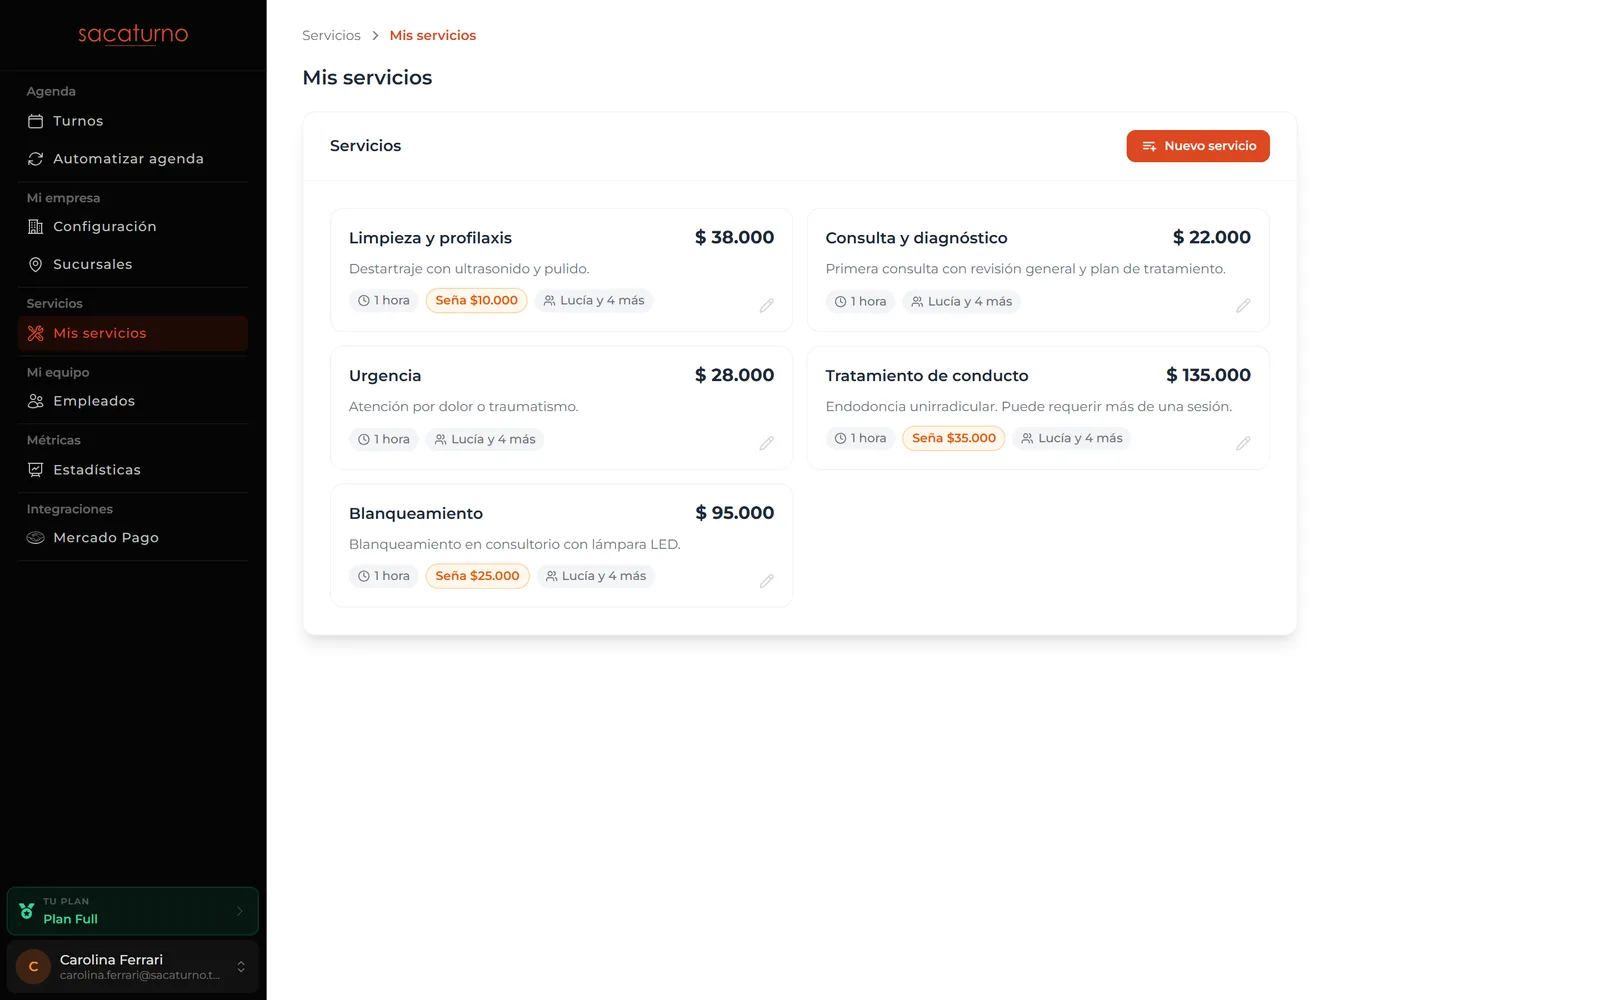
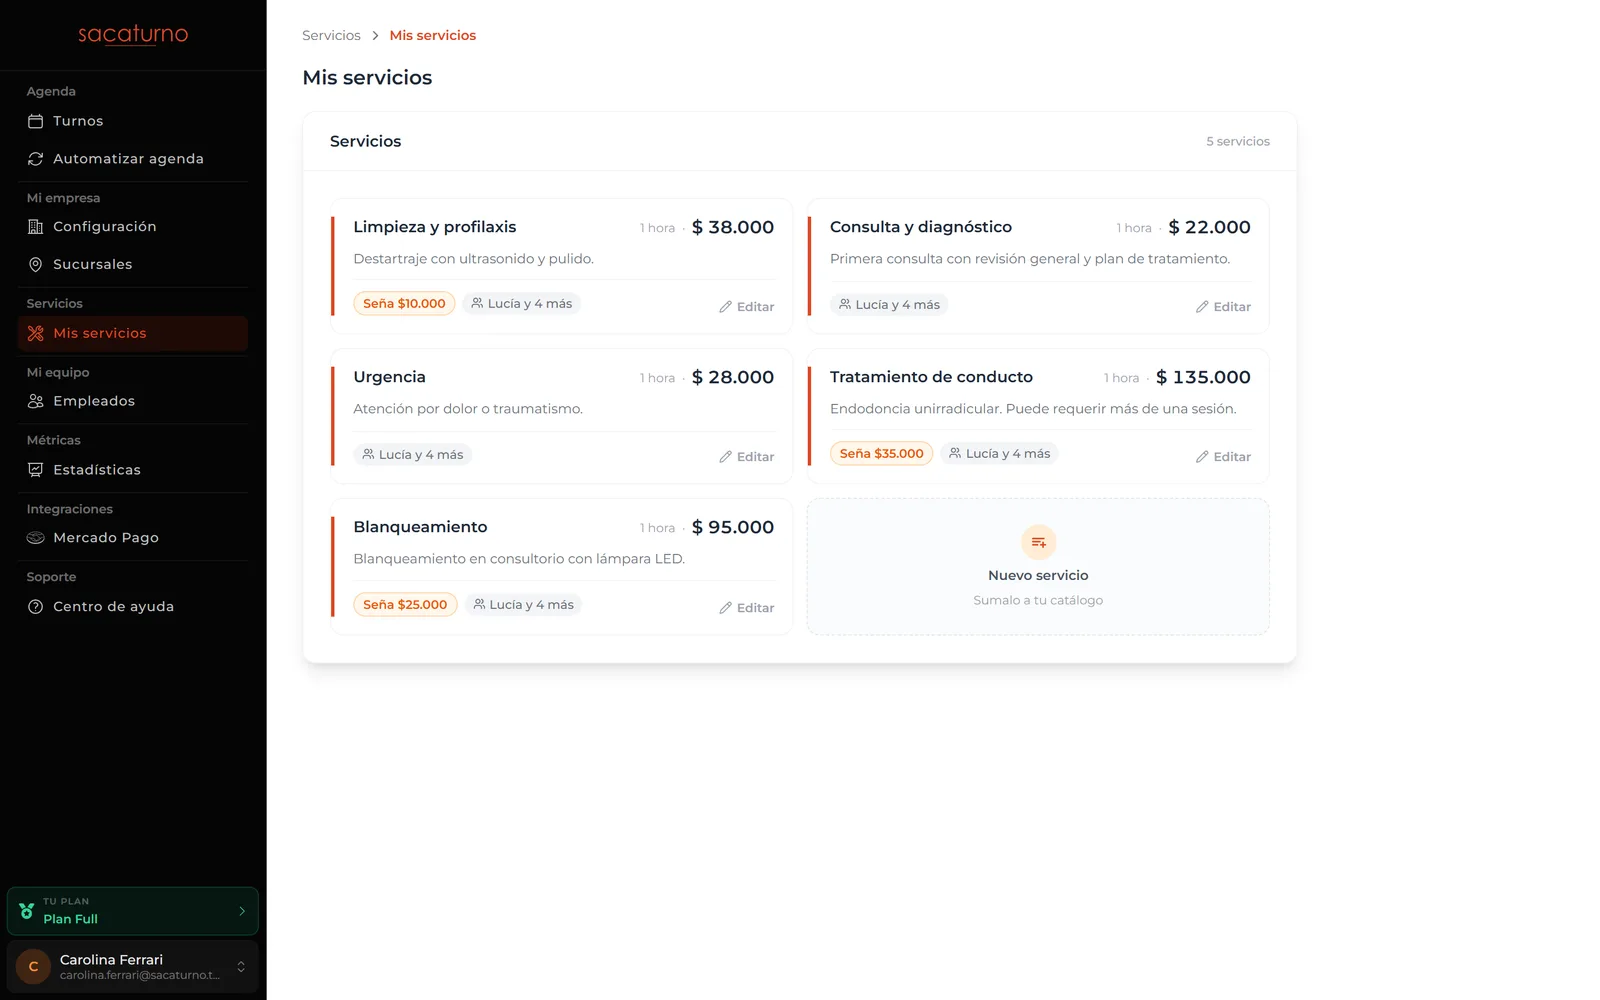
chore(home): refresh services screenshots with the redesigned section" -m "The redesigned panel is taller, so the home crop band for servicios widens from 1078 to 1140 to keep its bottom edge in frame.

diff --git a/public/google542d8b2b115cd4f7.html b/public/google542d8b2b115cd4f7.html
@@ -1,0 +1,1 @@
+google-site-verification: google542d8b2b115cd4f7.html
